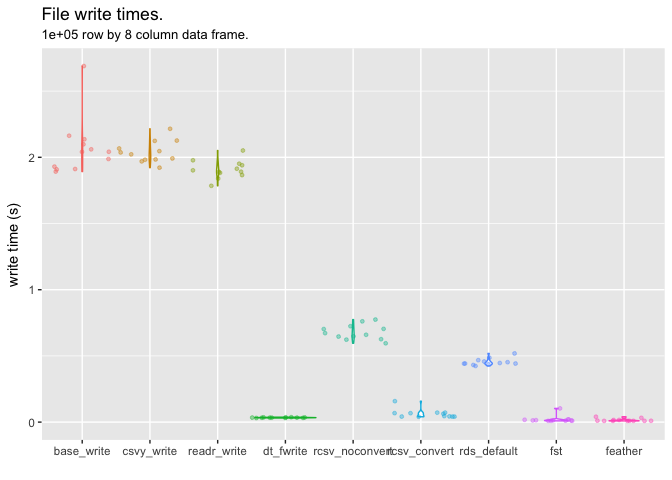
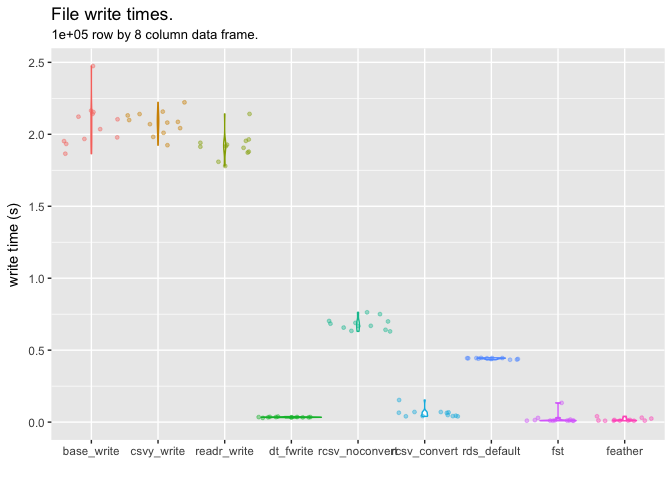
a few minor docs fixes

diff --git a/README.md b/README.md
@@ -406,25 +406,25 @@ write.times <- microbenchmark::microbenchmark(
 write.times
 #> Unit: milliseconds
 #>            expr         min          lq       mean     median         uq
-#>      base_write 1892.275241 1920.634331 2071.62366 2041.58149 2117.15647
-#>      csvy_write 1921.851768 1982.747639 2040.63525 2029.70842 2095.58228
-#>     readr_write 1784.717959 1874.332927 1907.50850 1896.47826 1945.72923
-#>       dt_fwrite   31.009089   32.835363   33.94921   33.81373   35.51984
-#>  rcsv_noconvert  595.436717  636.185753  678.12924  665.69128  714.31435
-#>    rcsv_convert   40.429801   41.840497   62.81886   54.12148   69.63089
-#>     rds_default  424.053992  439.299166  454.07322  444.41349  462.87916
-#>             fst    9.591155   10.661112   21.35015   13.36918   18.96208
-#>         feather    9.218395    9.517326   15.37526   10.13300   16.34822
+#>      base_write 1865.122737 1960.132106 2074.49549 2069.99542 2147.87738
+#>      csvy_write 1924.328024 2026.509486 2078.96079 2083.87210 2135.93451
+#>     readr_write 1779.642001 1876.205240 1917.23784 1915.24497 1947.86314
+#>       dt_fwrite   29.536957   33.190015   34.29838   34.28722   35.27978
+#>  rcsv_noconvert  630.414506  649.103992  682.35327  676.52768  701.22461
+#>    rcsv_convert   40.031094   41.885119   62.43568   56.67724   68.95914
+#>     rds_default  433.450496  438.296296  441.60673  443.68539  445.02834
+#>             fst    9.622395    9.825881   23.15253   10.70773   15.92769
+#>         feather    9.445226   10.193075   16.59175   11.10621   20.09081
 #>         max neval
-#>  2689.26513    12
-#>  2215.55675    12
-#>  2051.38503    12
-#>    37.14890    12
-#>   774.44934    12
-#>   158.14255    12
-#>   518.73882    12
-#>   103.43708    12
-#>    40.67204    12
+#>  2474.21459    12
+#>  2222.01192    12
+#>  2141.48119    12
+#>    38.38364    12
+#>   763.02340    12
+#>   153.51439    12
+#>   446.52835    12
+#>   133.82114    12
+#>    40.51175    12
 ```
 
 `write_rcsv` is built around the fantastic `data.table::fwrite` function, making it much faster than both `base::write.csv` and `readr::write_csv`. It even maintains relatively good performance compared with `data.table::fwrite`, but is slowed a little by the conversion processes and header writing steps.
@@ -485,25 +485,25 @@ read.times <- microbenchmark::microbenchmark(
 read.times
 #> Unit: milliseconds
 #>            expr         min          lq       mean      median          uq
-#>       base_read 1785.224060 1869.052976 1938.48362 1960.220479 2003.150657
-#>       csvy_read 1206.738151 1236.645295 1331.76077 1340.313560 1406.100369
-#>      readr_read  154.414239  163.532888  195.84388  173.978499  197.584783
-#>        dt_fread  104.414238  108.803280  125.70642  111.352527  144.528411
-#>  rcsv_noconvert  211.125705  230.804597  264.25857  238.917271  279.251499
-#>    rcsv_convert   89.250014   96.880959  128.62581  100.757934  140.026239
-#>     rds_default   44.207550   46.517145   48.50546   48.562050   50.400840
-#>             fst    6.727024    7.083920   12.22314    7.667641    8.752264
-#>         feather    5.254878    6.671743   26.84354    6.929982   34.344735
+#>       base_read 1842.221655 1872.251161 1933.88055 1915.581091 1989.957515
+#>       csvy_read 1195.990764 1208.052876 1308.25454 1272.742672 1410.618937
+#>      readr_read  156.267053  163.746084  196.62871  168.848405  207.810022
+#>        dt_fread  104.207240  110.312232  122.93030  114.652682  137.284966
+#>  rcsv_noconvert  219.891251  224.664609  259.44735  234.687201  273.324076
+#>    rcsv_convert   95.920611   97.407859  124.18664  101.221127  123.217694
+#>     rds_default   44.853619   47.423863   49.92746   49.816311   52.541821
+#>             fst    5.607810    6.883768   11.78424    7.517616    9.519244
+#>         feather    5.295504    6.381062   23.00218    7.047912   17.199560
 #>         max neval
-#>  2068.38172    12
-#>  1472.37685    12
-#>   328.78558    12
-#>   162.64403    12
-#>   456.11027    12
-#>   288.05291    12
-#>    53.63903    12
-#>    35.52125    12
-#>   161.66687    12
+#>  2081.06491    12
+#>  1443.47300    12
+#>   309.22069    12
+#>   163.16272    12
+#>   450.65072    12
+#>   281.89342    12
+#>    56.08788    12
+#>    38.16745    12
+#>   157.19320    12
 ```
 
 ``` r
@@ -562,22 +562,22 @@ read.times.with.manipulations <- microbenchmark::microbenchmark(
 )
 read.times.with.manipulations
 #> Unit: milliseconds
-#>            expr        min        lq      mean    median        uq
-#>      readr_read  610.71222  620.5702  681.6942  651.2171  717.5017
-#>        dt_fread 2393.99505 2528.7620 2630.1601 2655.8896 2767.2509
-#>  rcsv_noconvert  204.63623  220.7728  234.3002  236.9866  245.7570
-#>    rcsv_convert   89.56982  101.5485  110.3539  110.6825  118.1645
-#>            csvy 6259.41599 6367.7079 6625.7986 6556.4902 6796.8890
+#>            expr        min         lq      mean    median        uq
+#>      readr_read  631.68679  648.37885  691.8882  655.2630  720.3588
+#>        dt_fread 2506.27575 2516.52530 2592.8815 2566.1288 2649.4746
+#>  rcsv_noconvert  212.10188  227.40729  237.0061  236.7808  244.0867
+#>    rcsv_convert   92.01534   94.49969  107.8380  109.2338  119.0644
+#>            csvy 6332.20657 6466.35811 6624.4969 6539.6950 6769.6372
 #>        max neval
-#>   869.2659    12
-#>  2774.8020    12
-#>   263.7635    12
-#>   137.7625    12
-#>  7271.0296    12
+#>   866.6443    12
+#>  2804.7160    12
+#>   257.9417    12
+#>   125.3447    12
+#>  7078.1915    12
 ```
 
 ``` r
-ggplot( setDT( read.times.with.manipulations )[ grepl( "^base|^readr|^rcsv|^dt", expr ) ],
+ggplot( setDT( read.times.with.manipulations )[ grepl( "^base|^readr|^rcsv|^dt|^csvy", expr ) ],
         mapping = aes( expr, time/1E9, colour = expr ) ) +
     geom_violin( show.legend = FALSE ) +
     geom_jitter( size = 1, alpha = 0.4, width = 0.5, show.legend = FALSE ) +
@@ -589,7 +589,7 @@ ggplot( setDT( read.times.with.manipulations )[ grepl( "^base|^readr|^rcsv|^dt",
 
 ![](READMEfigs/unnamed-chunk-26-1.png)
 
-So, assuming you'll be performing the necessary data conversions on import, `fread` is actually significantly slower than `rcsv`. In the case of `rcsv_convert`, this is due to the fact that converting from numeric variables is often faster than from character. In the case of `rcsv_noconvert`, it is largely due to the use of several speed optimisations, including the use of the `fasttime` package in converting Date and POSIXct variables, which offers significant speed improvements over `as.Date` and `as.POSIXct` functions.
+So, assuming you'll be performing the necessary data conversions on import, `fread` is actually significantly slower than `rcsv`. In the case of `rcsv_convert`, this is due to the fact that converting from numeric variables is often faster than from character. In the case of `rcsv_noconvert`, it is largely due to the use of several speed optimisations, including the use of c++ as well as the `fasttime` package in converting datetime variables to improve speeds over `as.Date`, `as.POSIXct`, `chron::times`, `data.table::as.ITime`, `data.table::as.IDate` functions.
 
 Data integrity
 --------------
@@ -698,12 +698,12 @@ details <- glimpse_rcsv( testfile )
 #>       The equipment was calibrated using ISO 9000 
 #> 
 #>  "integers" <int> 1,2,3,4,5,6,7,8,9,10,11,12,13,14,15,16,17,18,19,20,21...
-#>  "letters" <char> h,g,u,s,p,r,i,m,b,i,e,x,p,w,r,y,f,j,q,s,x...
-#>  "dates" <date> 1986-04-15,2050-02-07,2031-04-26,2103-04-18,2022-12-06,2027-09-1...
+#>  "letters" <char> c,o,r,a,g,o,o,k,w,q,x,i,q,n,z,s,d,j,x,a,v...
+#>  "dates" <date> 2108-08-01,2053-03-17,2129-10-31,2018-08-27,2146-04-15,1985-10-1...
 #>  "posix" <posx> 1970-01-12 08:46:40,1970-01-12 09:03:20,1970-01-12 09:20:00,1970...
-#>  "itime" <itim> 21:32:51,01:36:18,02:20:54,17:40:16,03:03:45,02:35:28,21:08:26,0...
-#>  "logical" <logi> FALSE,FALSE,FALSE,TRUE,TRUE,TRUE,TRUE,FALSE,TRUE,FALSE,FALSE,TRU...
-#>  "factor" <fct> large,small,small,small,small,extra-large,large,extra-large,extr...
+#>  "itime" <itim> 16:27:13,12:46:35,00:45:31,03:43:23,14:44:26,18:49:02,17:28:38,0...
+#>  "logical" <logi> TRUE,TRUE,FALSE,FALSE,TRUE,FALSE,FALSE,TRUE,FALSE,TRUE,FALSE,TRU...
+#>  "factor" <fct> small,large,extra-large,medium,extra-large,small,small,large,med...
 #>  "times" <time> 00:01:26,00:15:57,00:30:28,00:44:59,00:59:30,01:14:01,01:28:32,0...
 ```
 
